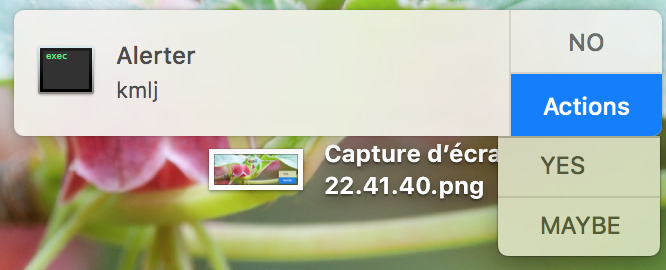
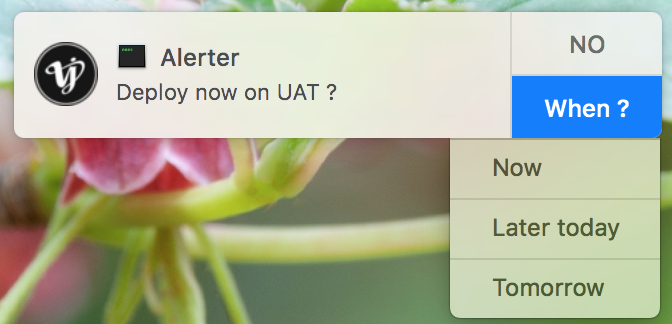
fix readme screenshot

diff --git a/example/simple/main.go b/example/simple/main.go
@@ -7,13 +7,13 @@ import (
 )
 
 func main() {
-	alert := gosxalerter.New("kmlj")
-	alert.Options.Actions = []string{"YES", "MAYBE"}
+	alert := gosxalerter.New("Deploy now on UAT ?")
+	alert.Options.Actions = []string{"Now", "Later today", "Tomorrow"}
+	alert.Options.AppIcon = "http://vjeantet.fr/images/logo.png"
 	alert.Options.CloseLabel = "NO"
-	alert.Options.DropdownLabel = "Actions"
+	alert.Options.DropdownLabel = "When ?"
 	alert.Options.Title = "Alerter"
 	alert.Options.Sound = gosxalerter.SoundHero
-	alert.Options.Timeout = 10
 
 	alertActivation, err := alert.DeliverAndWait()
 	if err != nil {

diff --git a/README.md b/README.md
@@ -4,13 +4,13 @@ gosx-alerter is a Go package for delivering desktop alert notifications to OSX 1
 [![GoDoc](http://godoc.org/github.com/vjeantet/gosx-alerter?status.png)](http://godoc.org/github.com/vjeantet/gosx-alerter)
 
 ```go
-    alert := gosxalerter.New("kmlj")
-    alert.Options.Actions = []string{"YES", "MAYBE"}
+    alert := gosxalerter.New("Deploy now on UAT ?")
+    alert.Options.Actions = []string{"Now", "Later today", "Tomorrow"}
+    alert.Options.AppIcon = "http://vjeantet.fr/images/logo.png"
     alert.Options.CloseLabel = "NO"
-    alert.Options.DropdownLabel = "Actions"
+    alert.Options.DropdownLabel = "When ?"
     alert.Options.Title = "Alerter"
     alert.Options.Sound = gosxalerter.SoundHero
-    alert.Options.Timeout = 10
 
     alertActivation, err := alert.DeliverAndWait()
     if err != nil {
